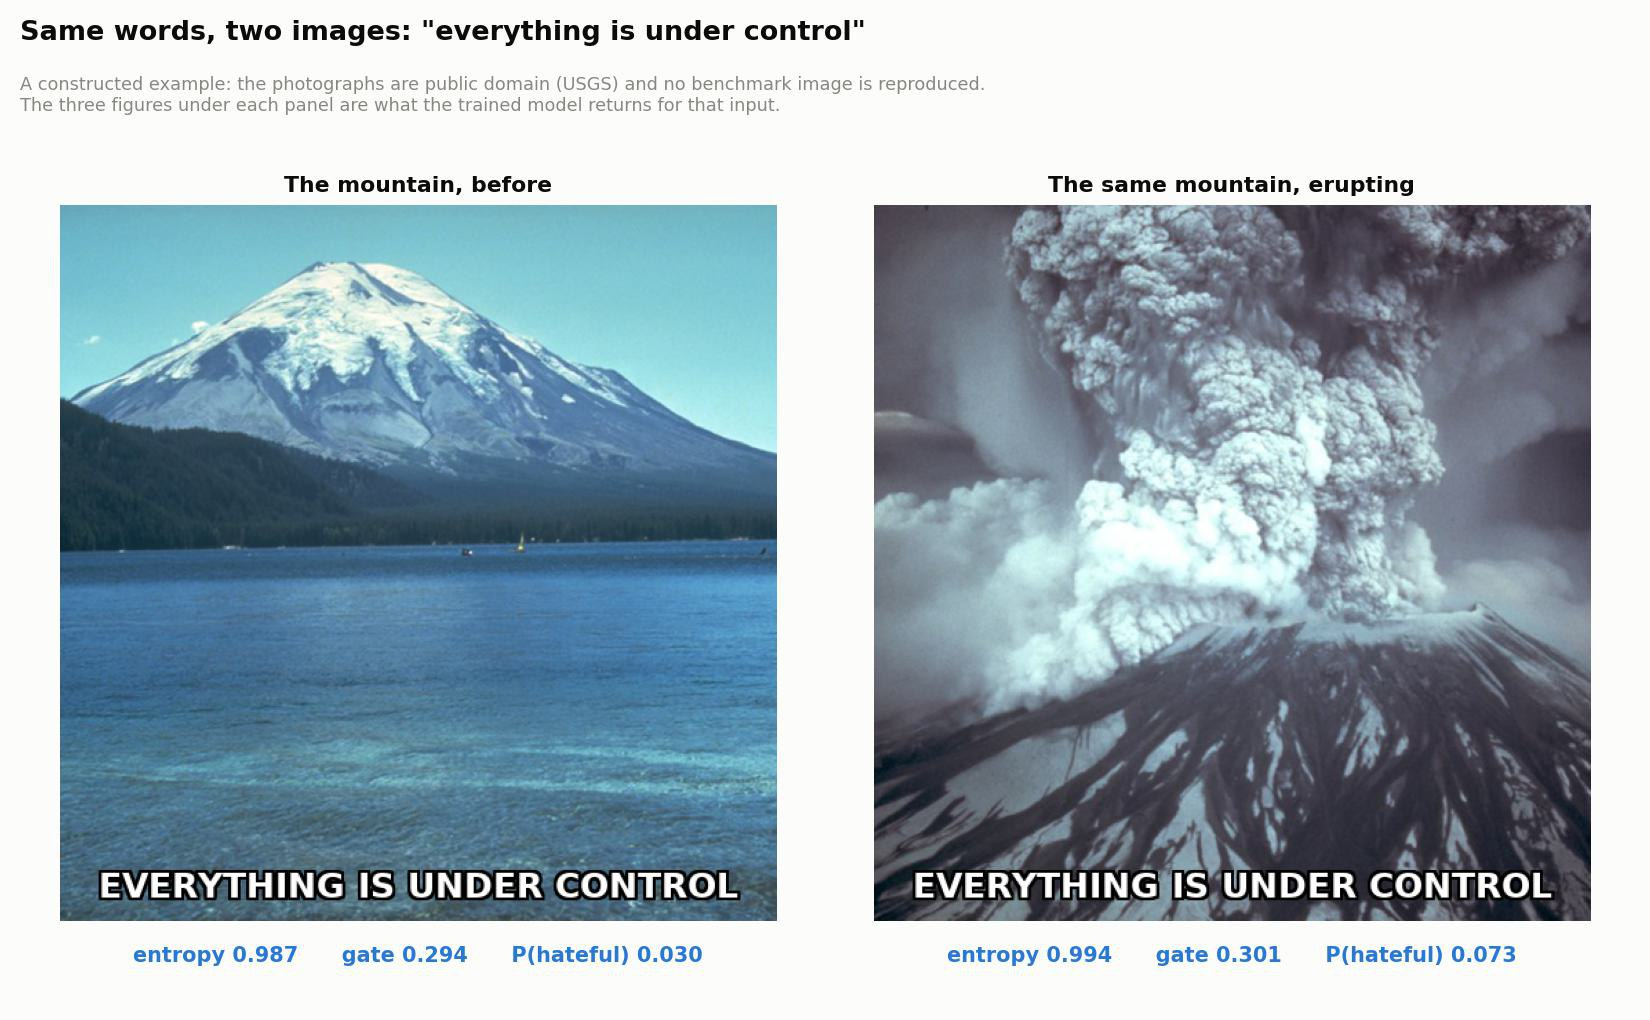
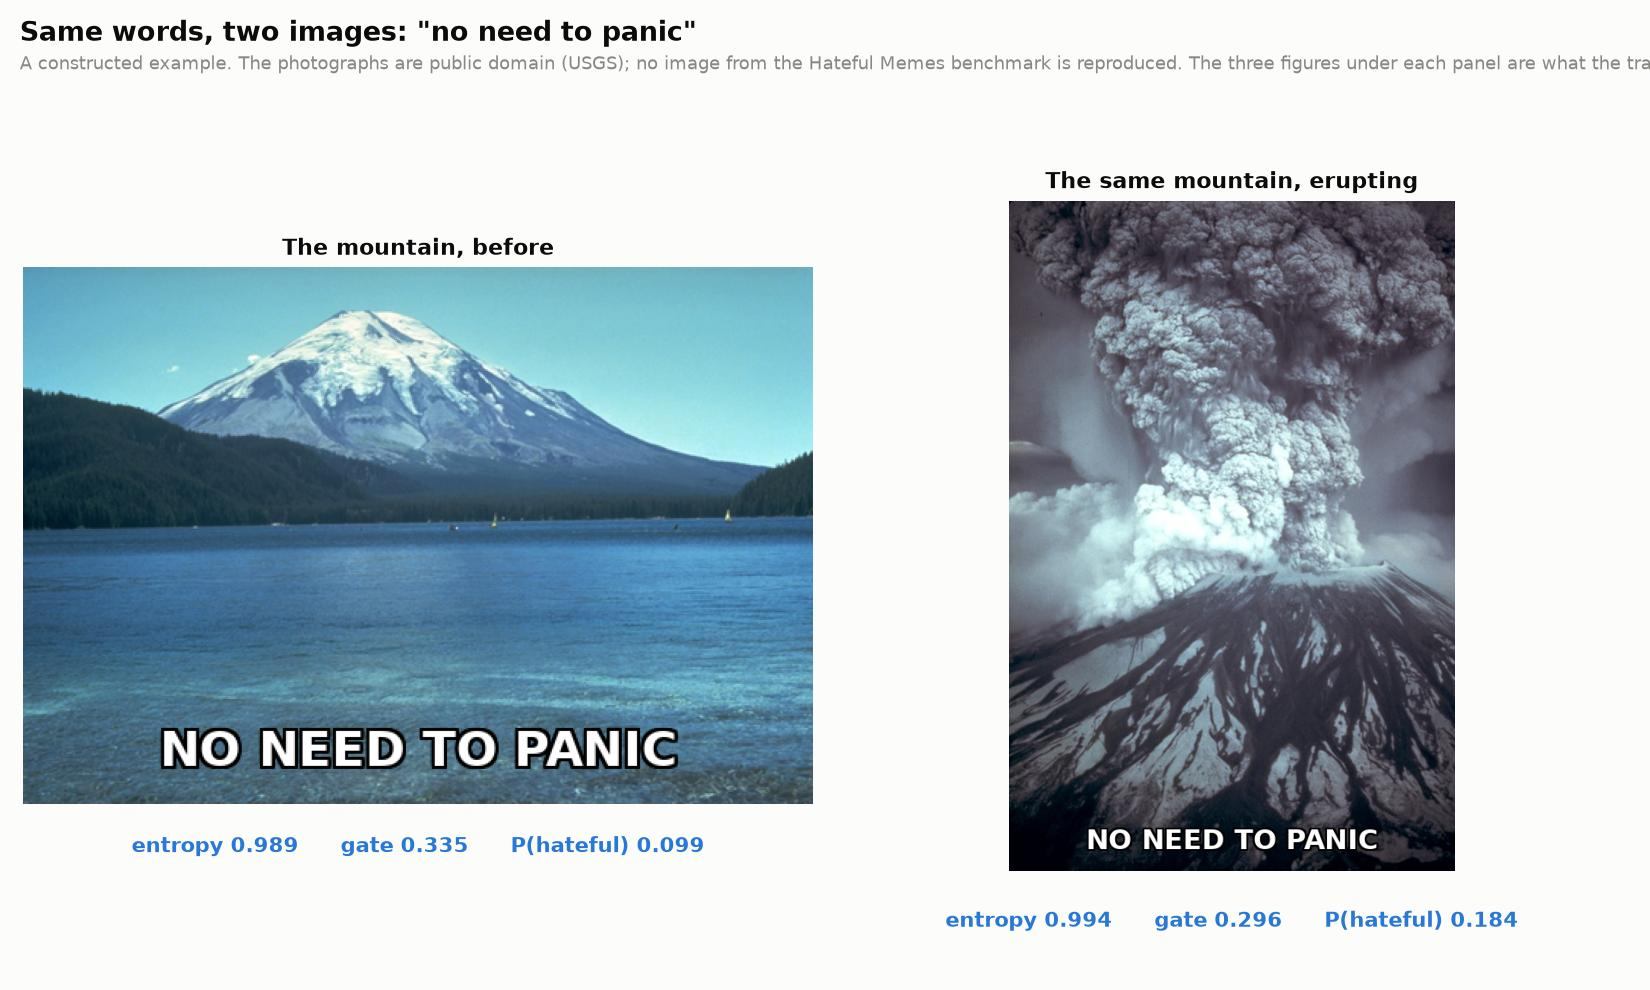
Swap the worked example for a caption with a real gap
"everything is under control" moved P(hateful) from 0.030 to 0.073 between
the two mountain photos, both close enough to zero that the swing barely
reads. Swept ten similarly-structured captions against the same two images
on the trained model and kept the one with the largest gap: "no need to
panic" moves it from 0.099 to 0.184, nearly double either of the old
numbers.

Also tried the pairing the Hateful Memes paper itself uses to illustrate
the task, a skunk against roses under "you smell good today" and four
close variants. It does not work here: the gap is smaller in both
directions (0.006 to 0.013) and points the wrong way, roses scoring higher
than the skunk on every caption tried. Worth knowing and not worth
shipping, so the mountain pair stays.

README, scripts/example.py's default caption, docs/example.jpg and
docs/example/scores.json all updated from the same run. The gate moves by
0.039 between the two mountain panels, which the README now says plainly
is too little to read a direction into from two examples; the entropy gate
section's 500-meme correlation is what actually answers that question.

diff --git a/scripts/example.py b/scripts/example.py
@@ -34,7 +34,7 @@ from transformers import AutoTokenizer, CLIPImageProcessor  # noqa: E402
 from ca_agfn.config import Config  # noqa: E402
 from ca_agfn.model import CAAGFN  # noqa: E402
 
-CAPTION = "everything is under control"
+CAPTION = "no need to panic"
 SURFACE = "#fcfcfb"
 INK = "#0b0b0b"
 INK_MUTED = "#898781"

diff --git a/README.md b/README.md
@@ -155,12 +155,14 @@ text over a different picture, so neither modality alone separates the pair.
 
 | | entropy | gate | P(hateful) |
 |---|---|---|---|
-| The mountain, before | 0.987 | 0.294 | 0.030 |
-| The same mountain, erupting | 0.994 | 0.301 | **0.073** |
+| The mountain, before | 0.989 | 0.335 | 0.099 |
+| The same mountain, erupting | 0.994 | 0.296 | **0.184** |
 
 The text is identical byte for byte, so every difference comes from the image.
-`P(hateful)` more than doubles while the gate moves by 0.007. The model reads
-the image; it just does not read it through the gate.
+`P(hateful)` nearly doubles while the gate moves by 0.039, which is too little
+to read a direction into from two examples; the correlation over the full
+500-meme validation set, above, is what actually answers that, and it is close
+to zero. The model reads the image; it just does not read it through the gate.
 
 Both photographs are public domain, from the United States Geological Survey,
 with their provenance in `docs/example/PROVENANCE.md`. **No image from the
